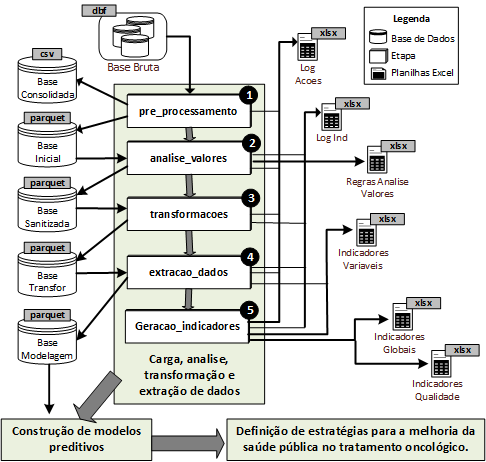
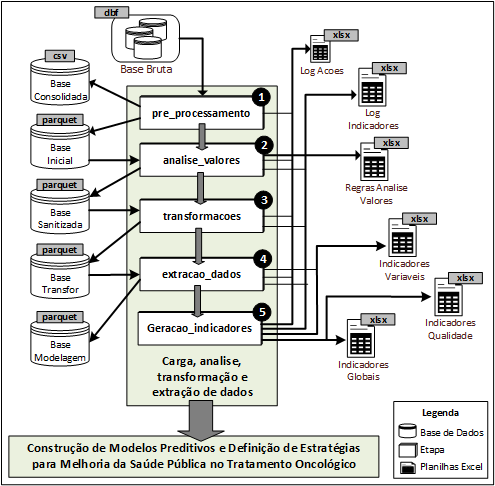
update

diff --git a/gerar_indicadores.py b/gerar_indicadores.py
@@ -17,7 +17,6 @@ MBA em Data Science e Analytics - USP/Esalq - 2025
 """
 
 import pandas as pd
-from datetime import datetime
 import numpy as np
 
 import sys
@@ -53,34 +52,38 @@ def insere_indicador_invalidos(df , response):
     Returns:
         (DataFrame):  DataFrame com indicadores atualizados
     """
-    a_dict = {}
-    
-    a_dict['TNM'] = df_apos_analise[(df_apos_analise['AnaliseTNM'] == 'incompleto') |
+   
+    q_TNM = df_apos_analise[(df_apos_analise['AnaliseTNM'] == 'incompleto') |
                                     (df_apos_analise['AnaliseTNM'] == 'demais') ].shape[0]
     
-    a_dict['LOCTUDET'] = df_apos_analise[(df_apos_analise['AnaliseLOCTUDET'] == 'incompleto') |
+    q_LOCTUDET = df_apos_analise[(df_apos_analise['AnaliseLOCTUDET'] == 'incompleto') |
                                     (df_apos_analise['AnaliseLOCTUDET'] == 'demais') ].shape[0]
     
-    a_dict['LOCTUPRI'] = df_apos_analise[(df_apos_analise['AnaliseLOCTUPRI'] == 'incompleto') |
+    q_LOCTUPRI = df_apos_analise[(df_apos_analise['AnaliseLOCTUPRI'] == 'incompleto') |
                                     (df_apos_analise['AnaliseLOCTUPRI'] == 'demais') ].shape[0]
     
-    a_dict['LOCTUPRO'] = df_apos_analise[(df_apos_analise['AnaliseLOCTUPRO'] == 'incompleto') |
+    q_LOCTUPRO = df_apos_analise[(df_apos_analise['AnaliseLOCTUPRO'] == 'incompleto') |
                                     (df_apos_analise['AnaliseLOCTUPRO'] == 'demais') ].shape[0]
     
-    a_dict['ESTADIAM'] = df_apos_analise[(df_apos_analise['AnaliseESTADIAM'] == 'incompleto') |
+    q_ESTADIAM = df_apos_analise[(df_apos_analise['AnaliseESTADIAM'] == 'incompleto') |
                                     (df_apos_analise['AnaliseESTADIAM'] == 'demais') ].shape[0]
     
-    a_dict['ESTADIAM'] = df_apos_analise[(df_apos_analise['AnaliseESTADIAM'] == 'incompleto') |
-                                    (df_apos_analise['AnaliseESTADIAM'] == 'demais') ].shape[0]
+    q_IDADE = df_apos_analise[df_apos_analise['IDADE'] == -1].shape[0]
     
-    a_dict['IDADE'] = df_apos_analise[df_apos_analise['IDADE'] == -1].shape[0]
+  
+      
+    # a_df = pd.DataFrame([a_dict])
+    # a_df.insert(0, "Indicador", ['Invalidos apos analise'])
     
-        
-    a_df = pd.DataFrame([a_dict])
-    a_df.insert(0, "Indicador", ['Invalidos apos analise'])
+    response.at['Invalidos apos a Analise' , 'TNM'] = q_TNM
+    response.at['Invalidos apos a Analise' , 'LOCTUDET'] = q_LOCTUDET
+    response.at['Invalidos apos a Analise' , 'LOCTUPRI'] = q_LOCTUPRI
+    response.at['Invalidos apos a Analise' , 'LOCTUPRO'] = q_LOCTUPRO
+    response.at['Invalidos apos a Analise' , 'ESTADIAM'] = q_ESTADIAM
+    response.at['Invalidos apos a Analise' , 'IDADE'] = q_IDADE
     
     
-    return pd.concat([response , a_df] , axis = 0)
+    return response
 
 
 def gera_indicador_incompletude(df , etapa , lista_colunas , response):
@@ -119,17 +122,25 @@ def gera_indicador_incompletude(df , etapa , lista_colunas , response):
     
     for var in lista_colunas:
         a = df[var].value_counts(dropna=False, normalize=False).reset_index()
-        count = 0
+        count_nulos = 0
+        count_sem_info = 0
         for i, row in a.iterrows():
             # print((var in informacao_ignorada_por_atributo.keys()) and (row[var] in informacao_ignorada_por_atributo[var] ))
-            if row[var] is np.nan:
-                count = count + row["count"]
-            if ((var in informacao_ignorada.keys()) and (row[var] in informacao_ignorada[var] )):
-                count = count + row["count"]
-                
-        print(f'Variavel: {var} Count:{count}')
-        response.at[etapa + ' - quantidade incompletos' , var] = count
-        response.at[etapa + etapa + ' - porcentagem incompletos' , var] = count * 100 / len(df)
+            
+            if (row.iloc[0] is np.nan) | (row.iloc[0] == 'nan') | (pd.isna(row.iloc[0])):
+                # print(f' nan -> {var} count -> {row.iloc[1]}')
+                count_nulos = count_nulos + row.iloc[1]
+            else:
+                if ((var in informacao_ignorada.keys()) and (row[var] in informacao_ignorada[var] )):
+                    count_sem_info = count_sem_info + row.iloc[1]
+       
+        response.at[etapa + ' - Nr incompletos (nulos)' , var] = count_nulos
+        response.at[etapa + etapa + ' - % incompletos (nulos)' , var] = count_nulos * 100 / len(df)
+        
+        response.at[etapa + ' - Nr incompletos (sem info)' , var] = count_sem_info
+        response.at[etapa + etapa + ' - % incompletos (sem info)' , var] = count_sem_info * 100 / len(df)
+        
+        
 
     return response
         
@@ -143,31 +154,12 @@ def busca_data_sp_iniciou_mais_que_1_trat(df):
 
     Returns:
         (Date):  data do inicio
-    """
-    
+    """    
     aux_sp = df[df['UFUH'] == 'SP']
     a = aux_sp.loc[aux_sp['PRITRATH_NrTratamentos'] > 1]
     a.sort_values(by='DATAINITRT' , ascending=[True]).reset_index(drop=True)
     
     return  a['DATAINITRT'].iloc[0]
-
-def main_indicadores_variaveis_qualidade(response_df):
-    # lista_colunas = ['SEXO', 'IDADE', 'ALCOOLIS', 'TABAGISM']
-    
-    # response_df = gera_indicador_incompletude(df_inicial , 'Inicial' , lista_colunas , response_df )
-    # response_df = gera_indicador_incompletude(df_apos_tipos , 'Apos Tipos definidos' , lista_colunas , response_df )
-    # response_df = gera_indicador_incompletude(df_apos_analise , 'Após Analise dos Dados' ,lista_colunas , response_df )
-    # response_df = gera_indicador_incompletude(df_apos_transf , 'Apos Transformacoes' , lista_colunas , response_df )
-    # response_df = gera_indicador_incompletude(df_apos_extracao , 'Apos Extracao' , lista_colunas , response_df )
-    
-    response_df = gera_indicador_incompletude(df_inicial , 'Inicial' , df_inicial.columns , response_df )
-    response_df = gera_indicador_incompletude(df_apos_tipos , 'Apos Tipos definidos' , df_apos_tipos.columns , response_df )
-    response_df = gera_indicador_incompletude(df_apos_analise , 'Após Analise dos Dados' , df_apos_analise.columns , response_df )
-    response_df = gera_indicador_incompletude(df_apos_transf , 'Apos Transformacoes' , df_apos_transf.columns , response_df )
-    response_df = gera_indicador_incompletude(df_apos_extracao , 'Apos Extracao' , df_apos_extracao.columns , response_df )
-    
-
-    return response_df    
 
 def main_indicadores_variaveis(response_df):
     """Funcao principal de geracao dos indicadores das variaveis.
@@ -177,14 +169,28 @@ def main_indicadores_variaveis(response_df):
     Returns:
         (DataFrame):  DataFrame com indicadores atualizados       
     """ 
-    response_df = insere_indicador_nulos(df = df_inicial, tipo = 'Nulos - Inicial' , response = response_df)
+    # response_df = insere_indicador_nulos(df = df_inicial, tipo = 'Nulos - Inicial' , response = response_df)
     
-    response_df = insere_indicador_nulos(df = df_apos_tipos, tipo = 'Nulos - Após Tipos Definidos', response = response_df)
+    # response_df = insere_indicador_nulos(df = df_apos_tipos, tipo = 'Nulos - Após Tipos Definidos', response = response_df)
         
-    response_df = insere_indicador_nulos(df = df_apos_analise, tipo = 'Nulos - Após Analise dos Dados', response = response_df)
+    # response_df = insere_indicador_nulos(df = df_apos_analise, tipo = 'Nulos - Após Analise dos Dados', response = response_df)
+
+    # print(log.logar_acao_realizada('Indicadores' , 'Calculo dos indicadores de NULOS' , ' '))
+
+    response_df = gera_indicador_incompletude(df_inicial , 'Inicial' , df_inicial.columns , response_df )
+    response_df = gera_indicador_incompletude(df_apos_tipos , 'Apos Tipos definidos' , df_apos_tipos.columns , response_df )
+    response_df = gera_indicador_incompletude(df_apos_analise , 'Após Analise dos Dados' , df_apos_analise.columns , response_df )
+    response_df = gera_indicador_incompletude(df_apos_transf , 'Apos Transformacoes' , df_apos_transf.columns , response_df )
+    response_df = gera_indicador_incompletude(df_apos_extracao , 'Apos Extracao' , df_apos_extracao.columns , response_df )
+    
+    print(log.logar_acao_realizada('Indicadores' , 'Calculo dos indicadores de COMPLETUDE (porcentagem de nulos ou sem informação)' , ' '))
+
     
     response_df = insere_indicador_invalidos(df = df_apos_analise, response = response_df)
     
+    print(log.logar_acao_realizada('Indicadores' , 'Calculo dos indicadores de INVALIDOS' , ' '))
+
+
     return response_df
 
 
@@ -226,34 +232,28 @@ def main_indicadores_globais():
     
     return a_df
 
-
-
 if __name__ == "__main__":
     log = Log()
-
+    log.carregar_log('log_BaseModelagem')
+    
     df_inicial = f.leitura_arquivo_csv('BaseConsolidada')
     df_apos_tipos = f.leitura_arquivo_parquet('BaseInicial')
     df_apos_analise =  f.leitura_arquivo_parquet('BaseSanitizada')
     df_apos_transf = f.leitura_arquivo_parquet('BaseTransfor')
     df_apos_extracao =  f.leitura_arquivo_parquet('BaseModelagem')
-    
-    result_df = pd.DataFrame()
-    result_df = main_indicadores_variaveis_qualidade(result_df)
+    print(log.logar_acao_realizada('Carga Dados' , 'Carregamento dos dados para calculo dos indicadores' , ' '))
 
-    result_df = result_df.fillna(0) 
-    # result_df.reset_index(drop = True , inplace=True)
-    
-    a_file_name = 'indicadores_qualidade'
-    f.salvar_excel_conclusao(result_df , a_file_name)
-    
-    
     result_df = pd.DataFrame()
     result_df = main_indicadores_variaveis(result_df)
     
+    result_df.reset_index(drop = False , inplace=True)
+    result_df.rename(columns={'index':'Indicador'}, inplace=True)
+    
     a_df = f.leitura_arquivo_excel_conclusao('parcial_extracao')
     result_df = pd.concat([result_df , a_df] , axis = 0)
+    print(log.logar_acao_realizada('Indicadores' , 'Registros eliminados na seleção de dados' , ' '))
 
-    result_df = result_df.fillna(0) 
+    result_df = result_df.fillna('nan') 
     result_df.reset_index(drop = True , inplace=True)
     
     a_file_name = 'indicadores_variaveis'
@@ -262,12 +262,13 @@ if __name__ == "__main__":
     result_df = pd.DataFrame()
     result_df = main_indicadores_globais()
     
-    result_df = result_df.fillna(0) 
+    result_df = result_df.fillna('nan') 
     result_df.reset_index(drop = True , inplace=True)
     
     a_file_name = 'indicadores_globais'
     f.salvar_excel_conclusao(result_df , a_file_name)
 
+    log.salvar_log('log_Indicadores') 
 
 
 # df = df_apos_analise.loc[:, df_apos_analise.columns.str.startswith('Analise')]

diff --git a/transformacoes.py b/transformacoes.py
@@ -167,13 +167,21 @@ def infere_ESTDFIMT(df , dias_entre_DATAINITRT_DATAOBITO = 730):
         dias_entre_DATAINITRT_DATAOBITO (int): intervalo de tempo a ser considerado
 
     """
-    aux_df = df.loc[ (df['ESTDFIMT'].isnull()) &  ~(df['DATAOBITO'].isnull()) & 
+    aux_df = df.loc[ (((df['ESTDFIMT'] == 8) | (df['ESTDFIMT'] == 9)) &  ~(df['DATAOBITO'].isnull())) & 
                                       (df['DATAOBITO'] < df['DATAINITRT'] + timedelta(days = dias_entre_DATAINITRT_DATAOBITO)  ) ]
+    
+    aux_df = df.loc[((df['ESTDFIMT'] == '8') | (df['ESTDFIMT'] == '9'))
+                & (~(df['DATAOBITO'].isnull())) 
+                & (df['DATAOBITO'] < (df['DATAINITRT'] + timedelta(days = dias_entre_DATAINITRT_DATAOBITO))  )]
+    
+    
     aux_quant = aux_df.shape[0]
     
-    df.loc[ (df['ESTDFIMT'].isnull()) &  ~(df['DATAOBITO'].isnull()) & 
-                                      (df['DATAOBITO'] < df['DATAINITRT'] + timedelta(days = dias_entre_DATAINITRT_DATAOBITO)  ) , 'ESTDFIMT'] = '6'
-    
+    df.loc[((df['ESTDFIMT'] == '8') | (df['ESTDFIMT'] == '9'))
+                & (~(df['DATAOBITO'].isnull())) 
+                & (df['DATAOBITO'] < (df['DATAINITRT'] + timedelta(days = dias_entre_DATAINITRT_DATAOBITO))  ) ,
+                'ESTDFIMT'] = '6'
+     
     print(log.logar_acao_realizada('Gerar / Transformar Dados' , f'Inferir o valor de ESTDFIMT a partir de DATAOBITO ate {dias_entre_DATAINITRT_DATAOBITO} dias apos o inicio do tratamento' , f'{aux_quant}'))
     
     log.logar_indicador('Correcoes' , 'Inferencia Dados'  , f'Inferir o valor de ESTDFIMT a partir da DATAOBITO - {dias_entre_DATAINITRT_DATAOBITO} dias ' , 'ESTDFIMT' , aux_quant )

diff --git a/funcoes.py b/funcoes.py
@@ -68,7 +68,18 @@ class Log:
         
     def __get_indicador_df(self , tipo):
         if tipo not in list(self.__indicadores.keys()):
-            df = pd.DataFrame()
+            lista_col =  ['TPCASO', 'SEXO', 'IDADE', 'LOCALNAS', 'RACACOR', 'INSTRUC', 'CLIATEN',
+                   'CLITRAT', 'HISTFAMC', 'ALCOOLIS', 'TABAGISM', 'ESTADRES', 'PROCEDEN',
+                   'ANOPRIDI', 'ORIENC', 'EXDIAG', 'ESTCONJ', 'ANTRI', 'DTPRICON',
+                   'DIAGANT', 'BASMAIMP', 'LOCTUDET', 'LOCTUPRI', 'TIPOHIST', 'LATERALI',
+                   'LOCTUPRO', 'MAISUMTU', 'TNM', 'ESTADIAM', 'OUTROESTA', 'PTNM', 'RZNTR',
+                   'DTINITRT', 'PRITRATH', 'ESTDFIMT', 'CNES', 'UFUH', 'MUUH', 'OCUPACAO',
+                   'DTDIAGNO', 'DTTRIAGE', 'DATAPRICON', 'DATAINITRT', 'DATAOBITO',
+                   'VALOR_TOT', 'BASDIAGSP', 'ESTADIAG']
+            
+            lista_col = list(lista_col)
+            lista_col.sort()
+            df = pd.DataFrame( columns = lista_col)
             df.astype('str')
             self.__indicadores = self.__indicadores | { tipo : df }
         return self.__indicadores[tipo]

diff --git a/pre_processamento.py b/pre_processamento.py
@@ -92,6 +92,10 @@ def definir_tipos_variaveis(df):
         df[a_col] = df[a_col].apply(lambda x: strip_spaces(x) )
         df[a_col] = pd.to_datetime(df[a_col] , format="%d/%m/%Y" , errors= 'coerce')        
             
+    print( log.logar_acao_realizada('Definicao de Tipos' , 'Colunas do Tipo datas -> datetime' , colunas_datas) )
+    print( log.logar_acao_realizada('Definicao de Tipos' , 'Colunas do Tipo numerico -> int64' , colunas_numericos) )
+    print( log.logar_acao_realizada('Definicao de Tipos' , 'Colunas do Tipo categorica -> category' , colunas_categoricos) )
+
     return df
     
 
@@ -141,7 +145,6 @@ def main():
        
     #ACERTOS INICIAIS - TRATAR VALIDACOES A AJUSTES APLICAVEIS A TODA A BASE, SEM SER ESPECIFICO DOS CASOS QUE SERAO ABORDADOS (ANALITICOS)
     df_unico = definir_tipos_variaveis(df_unico)
-    
     
     # ETAPA INICIAL - SALVAR TRATAMENTO INICIAL 
     f.salvar_parquet(df_unico , 'BaseInicial')

diff --git a/analise_valores.py b/analise_valores.py
@@ -556,6 +556,12 @@ if __name__ == "__main__":
     # print( log.logar_acao_realizada('Carga Dados' , 'Carregamento da base dos dados a serem analisados - Casos analiticos' , df_unico.shape[0]) )
 
     df_unico = f.leitura_arquivo_parquet('BaseInicial')
+
+
+    restringir_periodo = False
+    if restringir_periodo: # usar 2000 a 2020 apenas
+        df_unico = df_unico[(df_unico['DATAINITRT'].dt.year > 1999) & (df_unico['DATAINITRT'].dt.year < 2021)]
+        
     print( log.logar_acao_realizada('Carga Dados' , 'Carregamento da base dos dados a serem analisados - Casos completos' , df_unico.shape[0]) )
 
     df_unico = main(df_unico) 

diff --git a/README.md b/README.md
@@ -22,7 +22,7 @@ a. Identificar transformações nos dados que possam completar informações aus
 b. Utilização da base na construção de modelos de Machine Learning para a predição da resposta ao primeiro tratamento identificando oportunidades de melhoria nas ações de saúde pública no tratamento oncológico.
 
 ## Processo Utilizado
-A figura abaixo mostra as etapas do processo utilizado na preparação dos dados obtidos a partir do RHC/INCA
+A figura abaixo mostra as etapas e artefatos gerados no processo de preparação dos dados obtidos a partir do RHC/INCA
 
 ![Processo Utilizado](imagens/metodo.png)
 
@@ -40,25 +40,25 @@ A figura abaixo mostra as etapas do processo utilizado na preparação dos dados
 [**Base Consolidada**](https://drive.google.com/uc?export=download&id=1Zt2Kv9DtM7IBdAGDdFwvMogPvceG7KYA) 
 
 
-#### Dados com tipos definidos (arquivo parquet e CSV)
+#### Dados com tipos definidos (arquivo parquet)
 [**Base Inicial  (parquet)**](https://drive.google.com/uc?export=download&id=1oNnt1K2yJhk3FzuK1ELUgUlFT-uf0d9x) 
 
-[**Base Inicial  (CSV)**](https://drive.google.com/uc?export=download&id=) 
+ 
 
-#### Dados com resultado das análises e sanitização (arquivo parquet e CSV)
+#### Dados com resultado das análises e sanitização (arquivo parquet)
 [**Base Sanitizada  (parquet)**](https://drive.google.com/uc?export=download&id=1P61hUWlMjr53jvomKmxHuLJkVR8XOuAf) 
 
-[**Base Sanitizada  (CSV)**](https://drive.google.com/uc?export=download&id=) 
 
-#### Dados com resultado das transformações e inferências (arquivo parquet e CSV)
+
+#### Dados com resultado das transformações e inferências (arquivo parquet)
 [**Base Transformada  (parquet)**](https://drive.google.com/uc?export=download&id=1P61hUWlMjr53jvomKmxHuLJkVR8XOuAf) 
 
-[**Base Transformada  (CSV)**](https://drive.google.com/uc?export=download&id=) 
 
-#### Dados de Casos Analíticos pré-processados - Prontos para uso na construção de modelos (arquivo parquet e CSV)
+
+#### Dados de Casos Analíticos pré-processados - Prontos para uso na construção de modelos (arquivo parquet)
 [**Base Modelagem (parquet)**](https://drive.google.com/uc?export=download&id=1Bj0FcA6lO6PJfJs5-i003Ldgag4q_jP-) 
 
-[**Base Modelagem  (CSV)**](https://drive.google.com/uc?export=download&id=) 
+
 
 
 ## Analises e Conclusões
@@ -80,6 +80,6 @@ A figura abaixo mostra as etapas do processo utilizado na preparação dos dados
 [**Indicadores Qualidade**](https://drive.google.com/uc?export=download&id=) 
 
 #### Medidas dos Indicadores Globais
-[** Indicadores Globais**](https://drive.google.com/uc?export=download&id=) 
+[**Indicadores Globais**](https://drive.google.com/uc?export=download&id=) 
 
 
